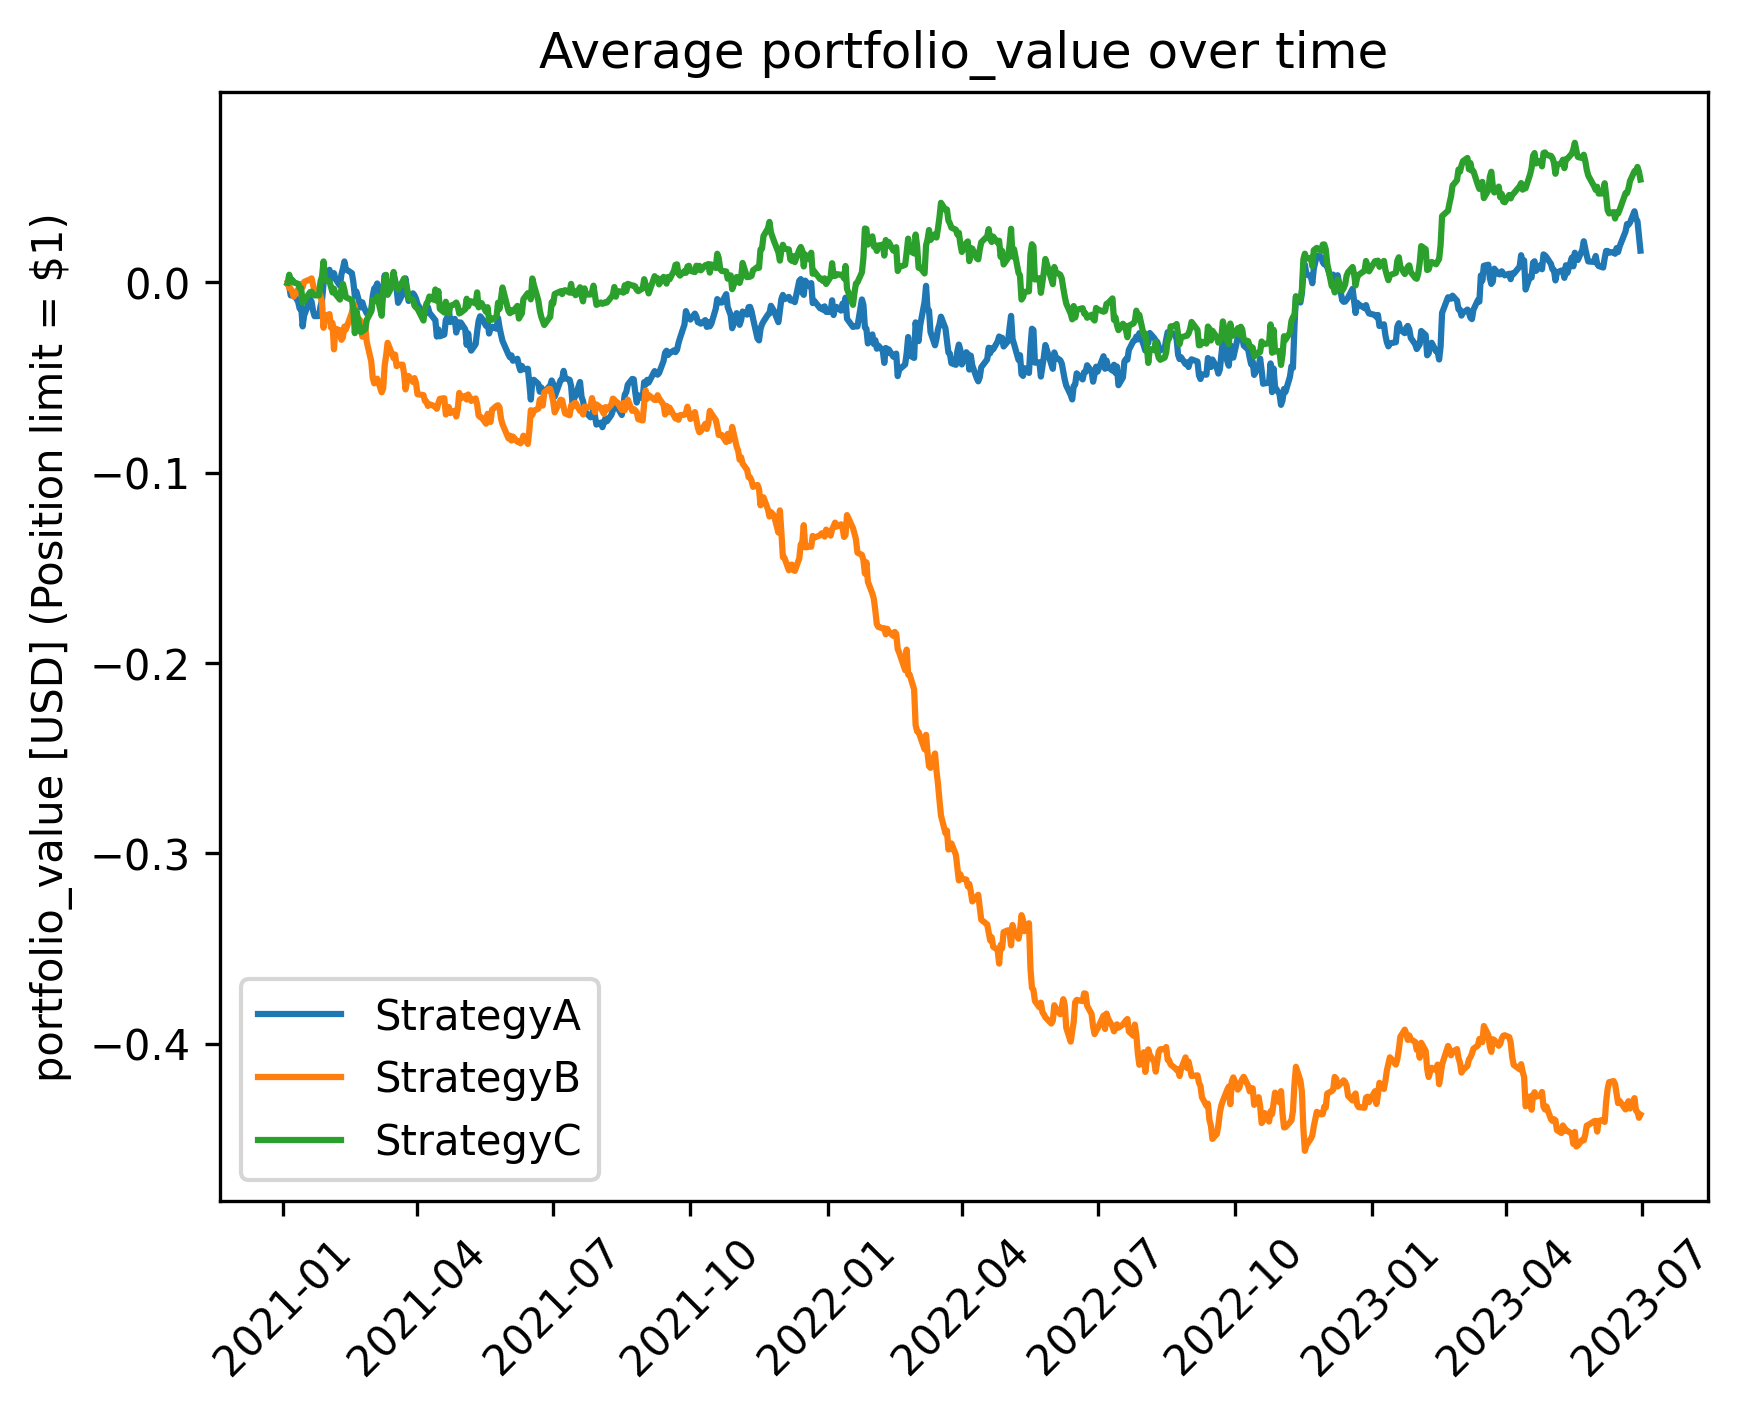
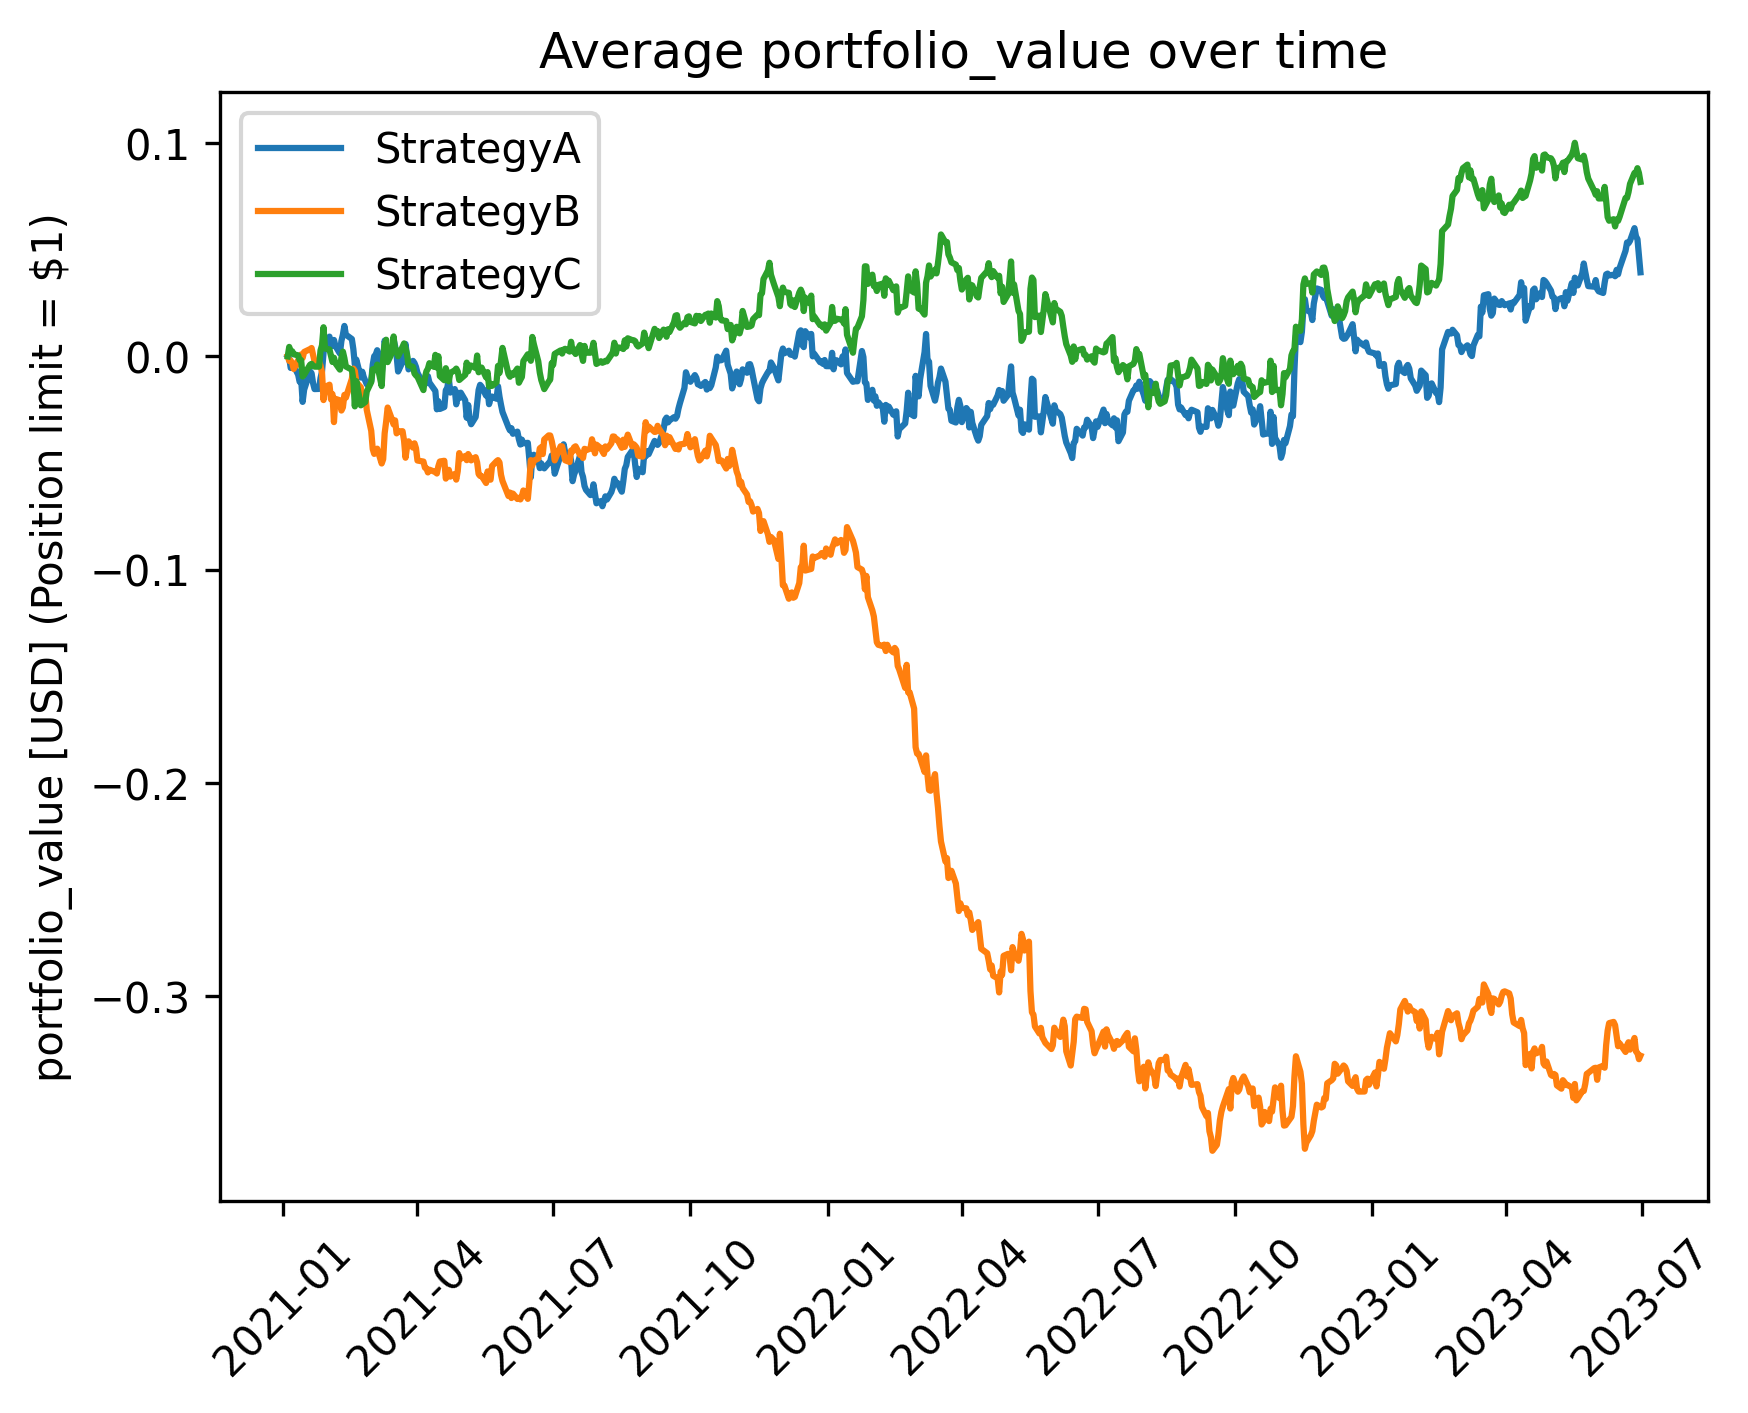
Adjusted transaction fee to 0.02%

diff --git a/pairs_trading_oaf/main.py b/pairs_trading_oaf/main.py
@@ -20,7 +20,7 @@ tic = time.perf_counter()
 TRAINING_DATA_FNAME = "Price Data - CSV - Formation Period.csv"
 TESTING_DATA_FNAME = "Price Data - CSV - Trading Period.csv"
 POSITION_LIMIT = int(1e0)
-TRADING_FEE = 0.001
+TRADING_FEE = 0.0002
 
 stock_pair_labels_list = [
     ("Microsoft Corporation (NasdaqGS:MSFT)", "Apple Inc. (NasdaqGS:AAPL)"),
